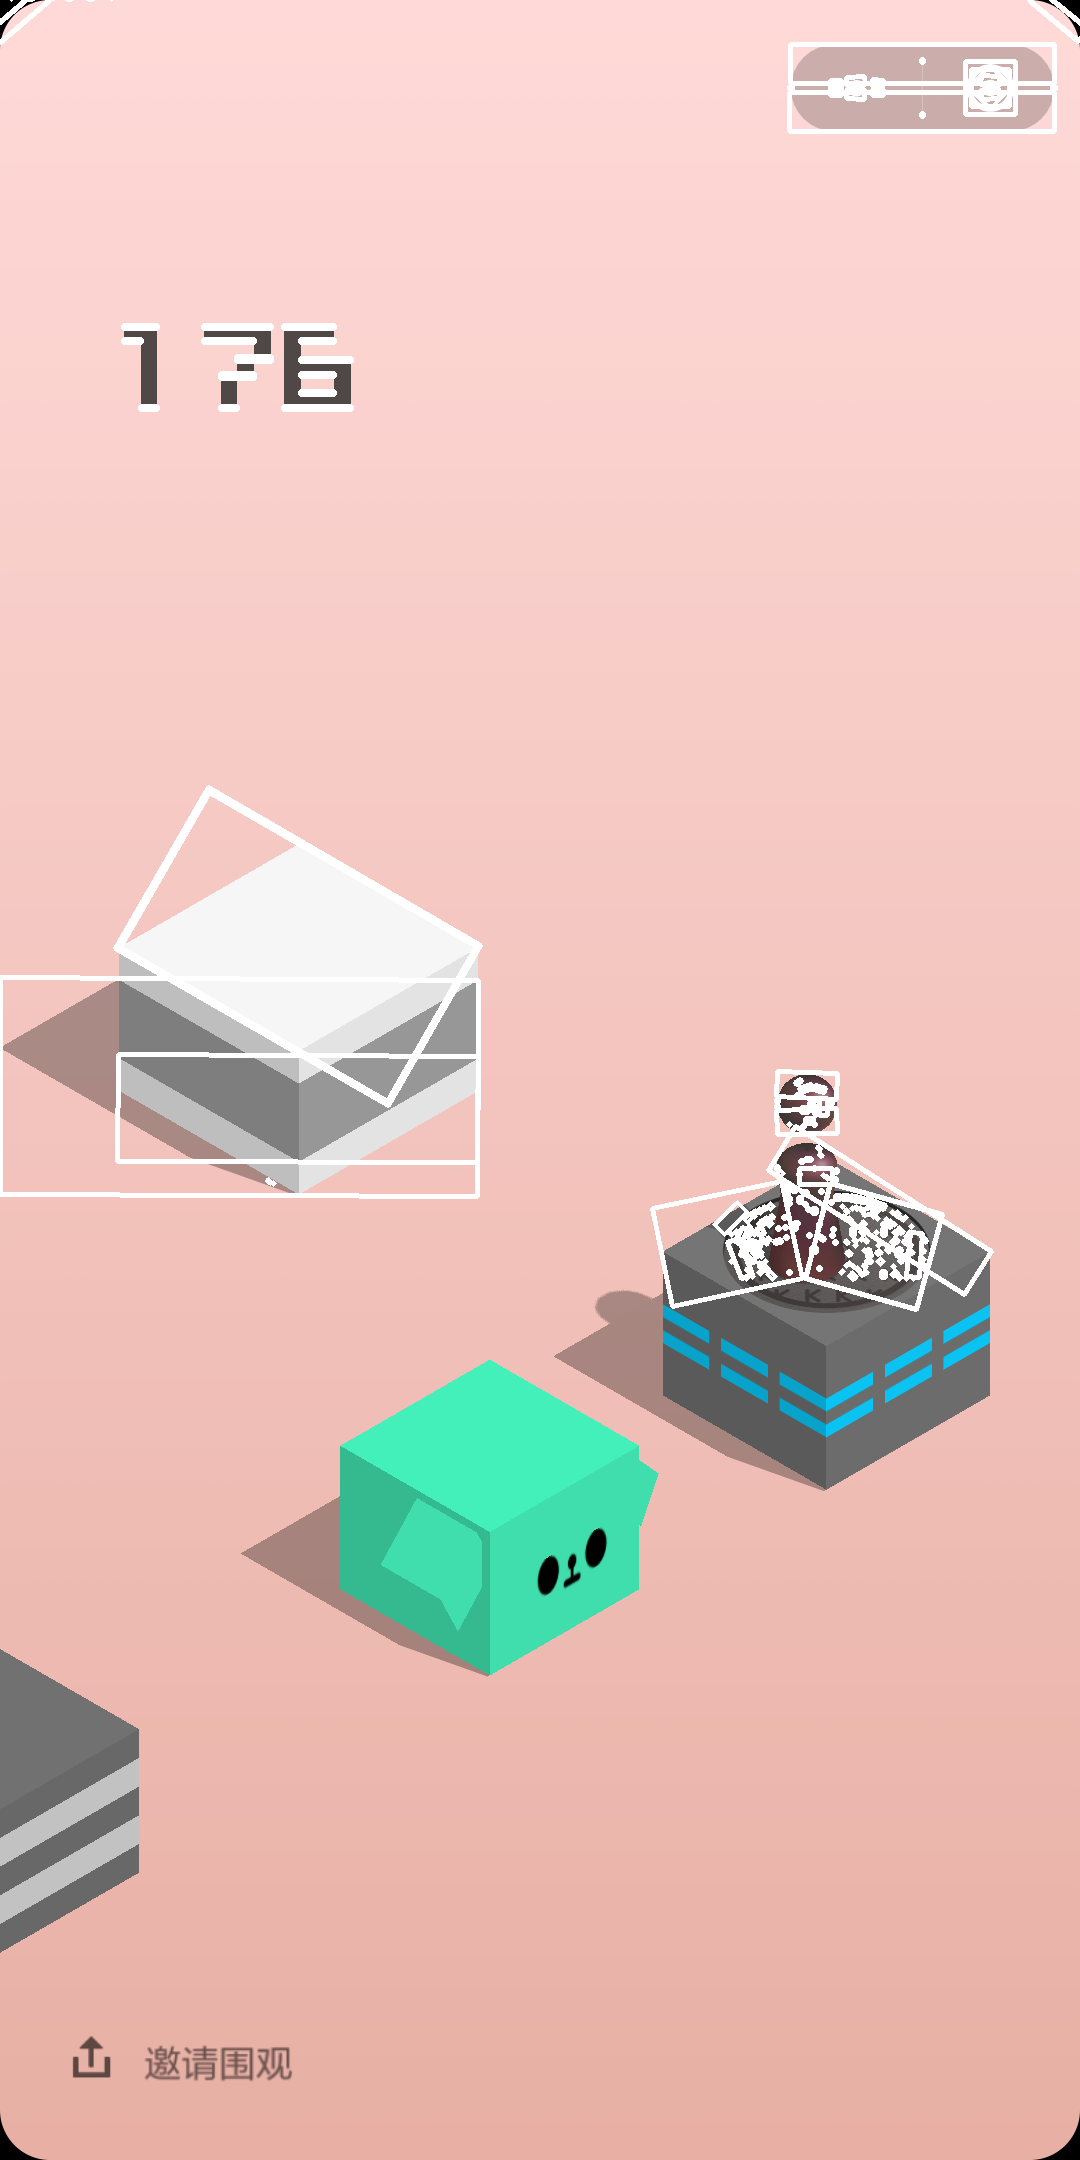
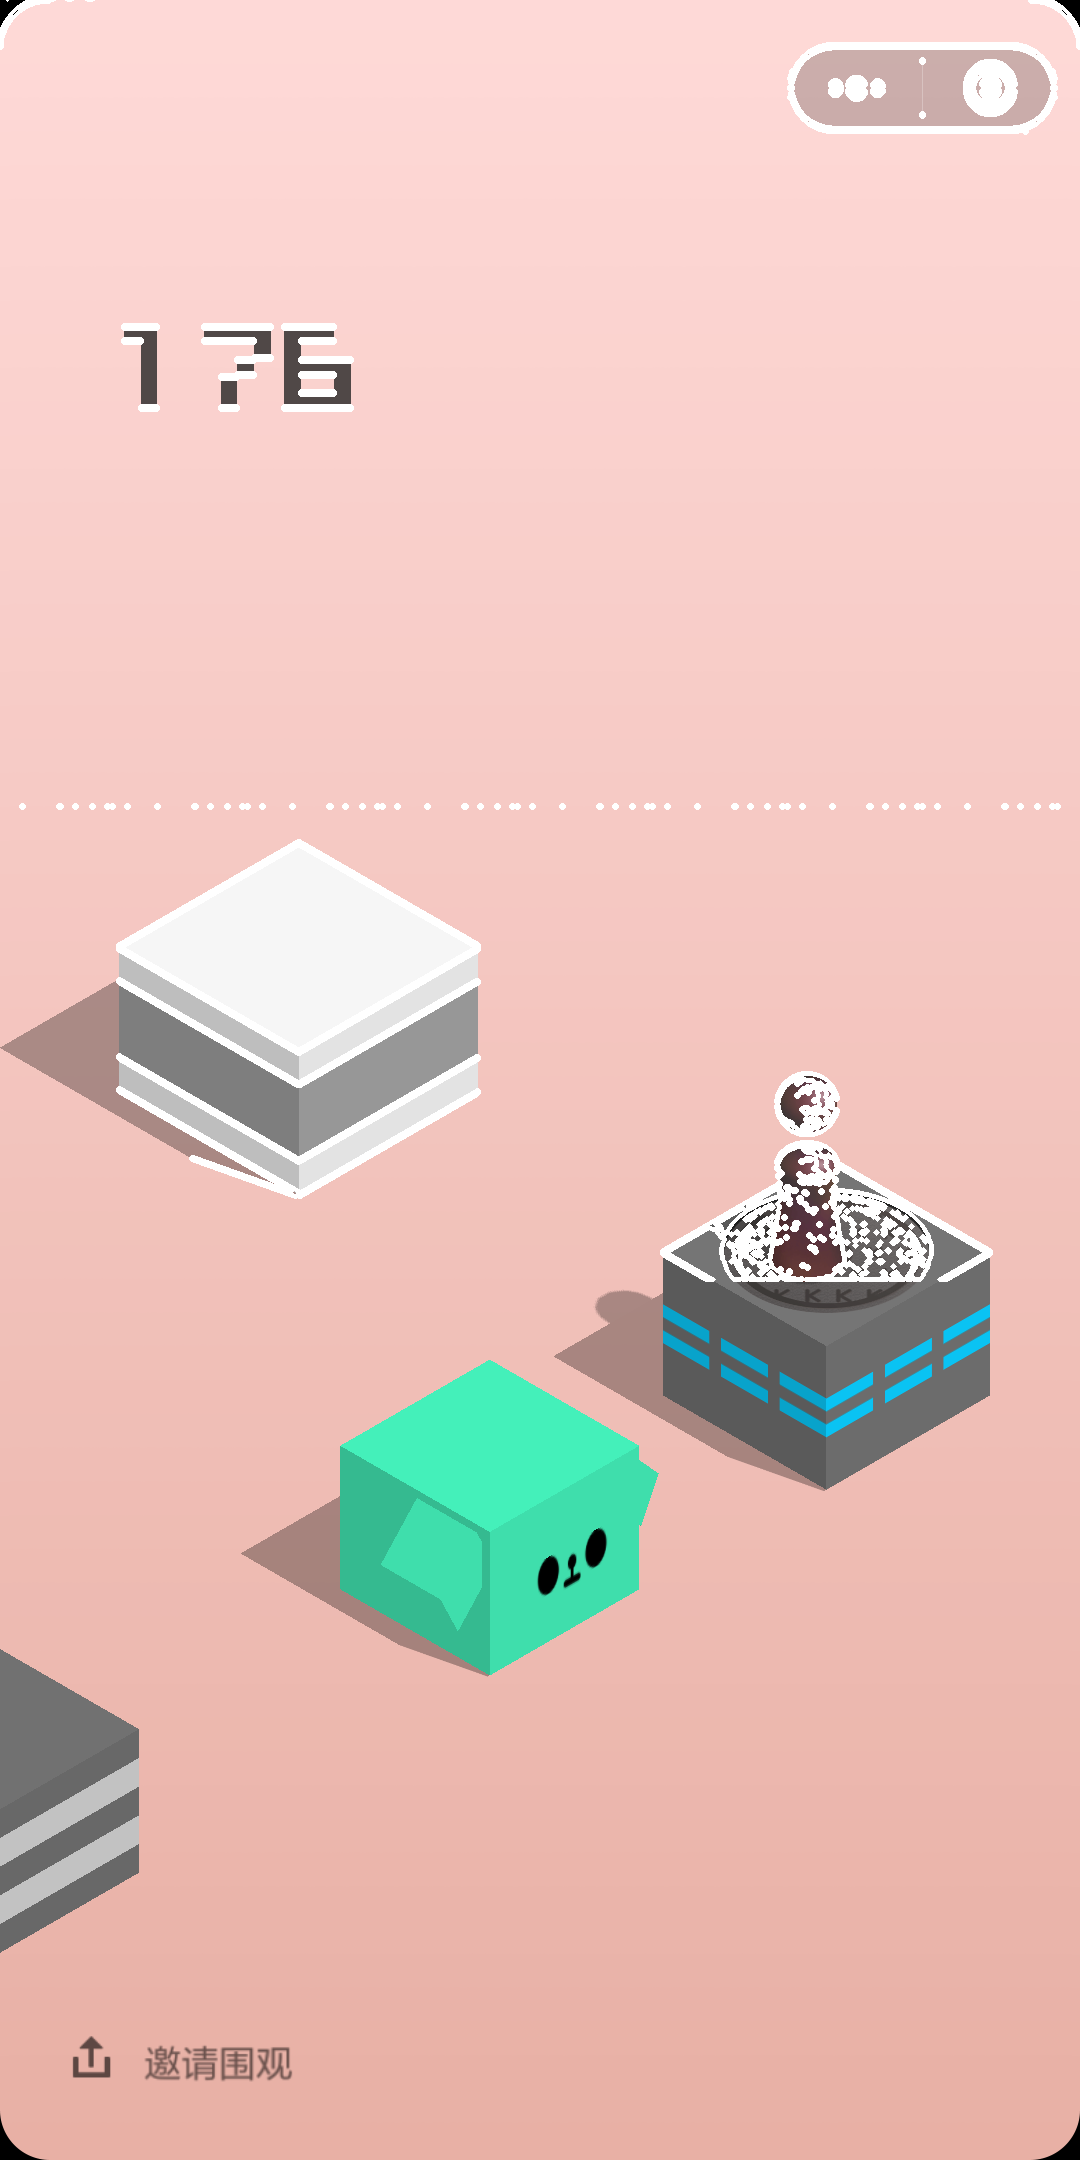
阴影去除成功

diff --git a/DQN.py b/DQN.py
@@ -2,22 +2,35 @@ import cv2
 import numpy as np
 # import torch
 from PIL import Image
-from scipy.stats import mode
+
 
 
 pic1 = np.asarray(Image.open('./train_data/091749.png'))
 pic2 = np.asarray(Image.open('./train_data/091755.png'))
 x = 1080
 y = 1920
-gray = cv2.cvtColor(pic1, cv2.COLOR_RGB2HSV)
-gray[:,:,0] = 0
-gray = cv2.cvtColor(gray, cv2.COLOR_HSV2RGB)
+deline = cv2.cvtColor(pic1, cv2.COLOR_RGB2HSV)
 
-cv2.imwrite('0hsv.png', gray)
-gray = cv2.cvtColor(pic1, cv2.COLOR_RGB2GRAY)
+i = 0
+for r in deline:
+    temp = np.argmax(np.bincount(r[:,2]))
+
+    k = 0
+    for j in r[:,2]:
+        if  temp*0.72 >= j >= temp*0.68:
+            deline[i][k][2] = temp
+        k += 1
+    i += 1
+
+cv2.imwrite('1deline.png', deline)
+
+
+
+gray = cv2.cvtColor(deline, cv2.COLOR_HSV2RGB)
+gray = cv2.cvtColor(gray, cv2.COLOR_RGB2GRAY)
 font=cv2.FONT_HERSHEY_SIMPLEX
 
-cv2.imwrite('1gray.png', gray)
+cv2.imwrite('2gray.png', gray)
 ke1 = np.array([[0, 0, 1, 0, 0],
                 [0, 0, 1, 0, 0],
                 [0, 0, -4, 0, 0],
@@ -27,28 +40,13 @@ ke1 = np.array([[0, 0, 1, 0, 0],
 
 filter2D = cv2.filter2D(gray,-1, ke1)
 
-filter2D = cv2.dilate(filter2D, None, iterations=1)
+filter2D = cv2.dilate(filter2D, None, iterations=1)  # 膨胀
 filter2D = np.where(filter2D<=5,filter2D,255)
 filter2D = np.where(filter2D==255,filter2D,0)
-cv2.imwrite('2filter2D.png', filter2D)
-deline = filter2D[:]
-
-i = 0
-for r in filter2D:
-    temp = np.argmax(np.bincount(r))
-    #print([list(r).count(x) for x in list(r)], temp)
-    #print(temp)
-    k = 0
-    for j in r:
-        if j == temp:
-            deline[i][k] = 0
-        k += 1
-    i += 1
-
-cv2.imwrite('3deline.png', deline)
+cv2.imwrite('3filter2D.png', filter2D)
 
 
-image, contours, _ = cv2.findContours(deline[:int(y/1.5),:], cv2.RETR_TREE, cv2.CHAIN_APPROX_SIMPLE)
+image, contours, _ = cv2.findContours(filter2D[:int(y/1.5),:], cv2.RETR_TREE, cv2.CHAIN_APPROX_SIMPLE)
 print('contours', len(contours))
 bigest_area = 0
 bigest = contours[0]
@@ -65,13 +63,10 @@ for c in contours:
     ret = cv2.minAreaRect(c)
     box = cv2.boxPoints(ret)
     box = np.int0(box)
-    cv2.drawContours(pic1, [box], -1, (255, 255, 0), 3)
-cv2.drawContours(pic1, bigest, -1, (255, 255, 0), 3)
-pic1 = cv2.putText(pic1, str(bigest_area), (x, y), font, 1, (255, 255, 0), 2)
-# TODO:寻找阴影,去除阴影
-#cv2.drawContours(pic1, contours, -1, (255, 255, 0), 3)
+    #cv2.drawContours(pic1, [box], -1, (255, 255, 0), 3)
+#cv2.drawContours(pic1, bigest, -1, (255, 255, 0), 3)
+pic1 = cv2.putText(pic1, str(bigest_area), (x, y), font, 1, (255, 0, 0), 2)
+
+cv2.drawContours(pic1, contours, -1, (255, 0, 0), 3)
 
 cv2.imwrite('5drawContours.png', pic1)
-
-cv2.waitKey()
-cv2.destroyAllWindows()
